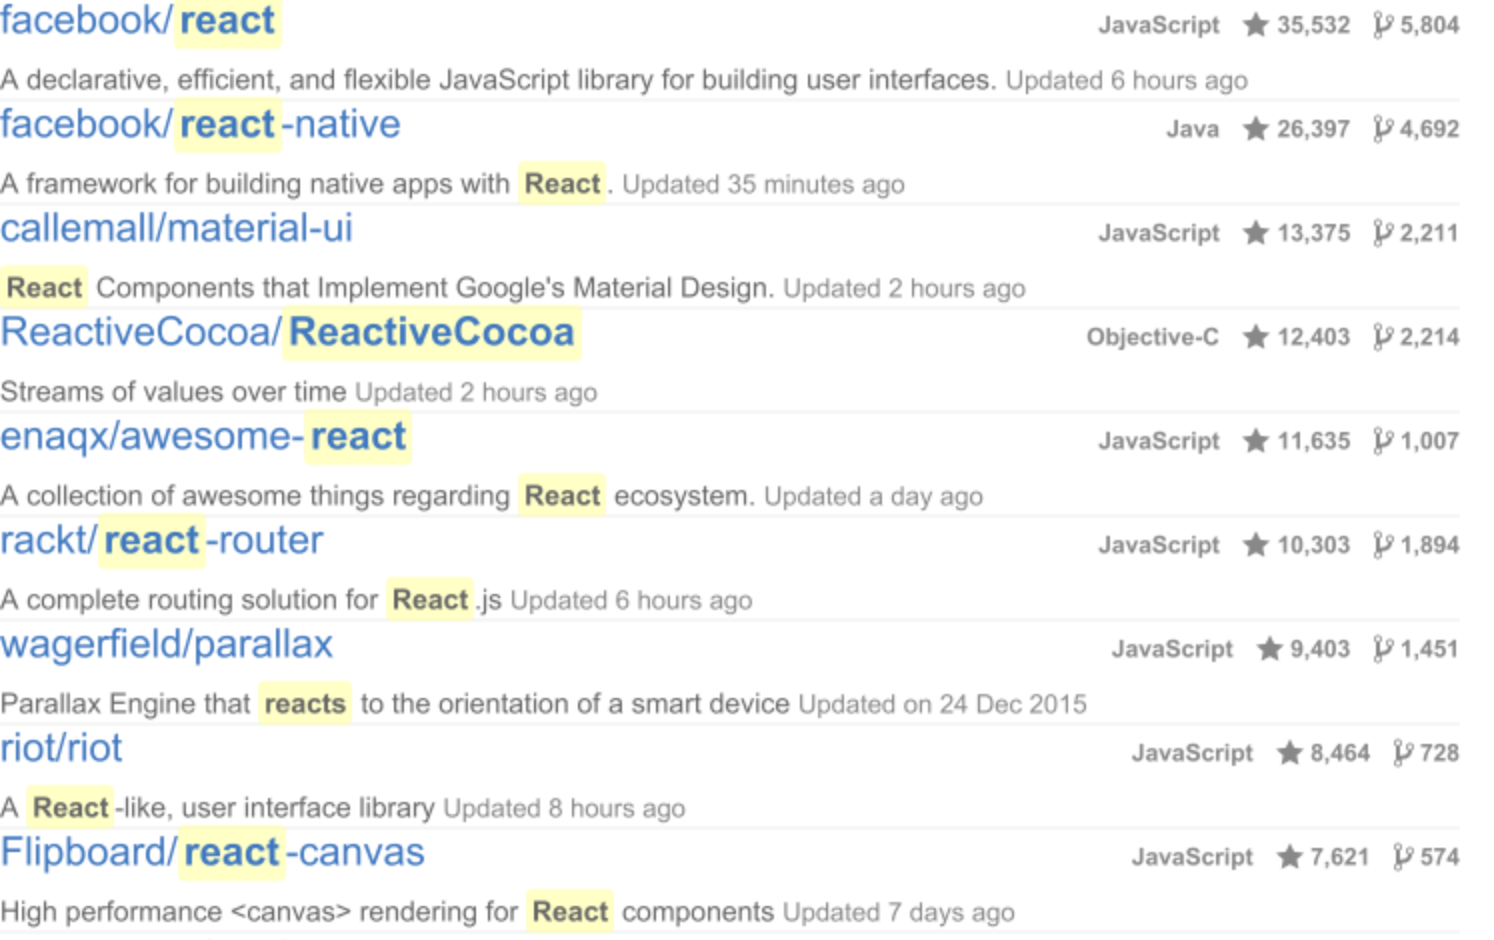
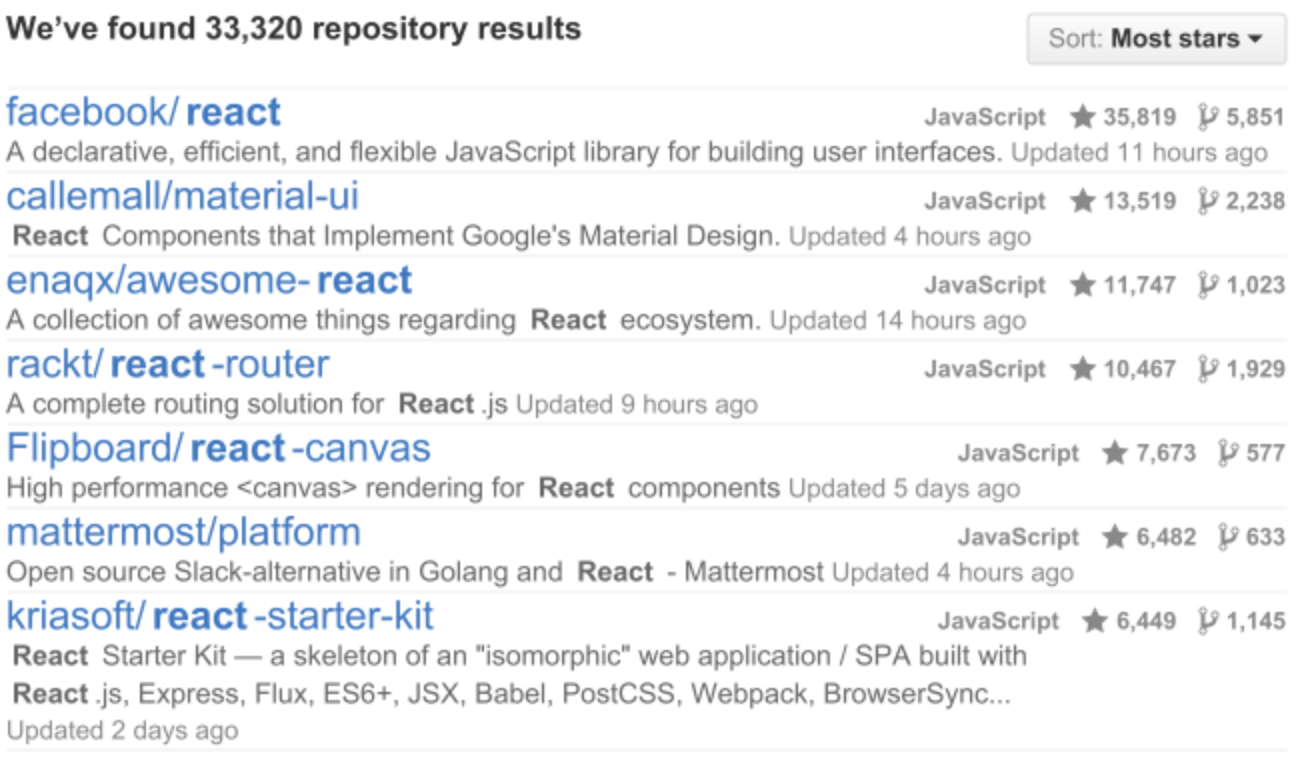
Fixed hello world and updated github screnshot.

Changed region(s): [[0.0, 0.0, 1.0, 0.9961], [0.7362, 0.5735, 0.9816, 0.6037]]

diff --git a/presentation/index.js b/presentation/index.js
@@ -84,8 +84,8 @@ export default class Presentation extends React.Component {
               margin="20px auto"
             />
             <br />
-            <Code>
-            Hello, Port 80
+            <Code style={{color: 'white'}}>
+            Hello Port 80
             </Code>
           </Slide>
           <Slide transition={["slide"]} bgImage={images.city.replace("/", "")} bgDarken={0.75}>
@@ -165,7 +165,7 @@ export default class Presentation extends React.Component {
             <Heading caps fit size={1} textColor="tertiary">
             Active Community
             </Heading>
-            <Image src={images.gh.replace("/", "")} margin="0px auto 40px" height="293px"/>
+            <Image src={images.gh.replace("/", "")} margin="40px auto 40px" height="450px"/>
           </Slide>
           <Slide transition={["spin", "slide"]} bgColor="tertiary">
             <Heading size={1} caps fit lineHeight={1.5} textColor="primary">
